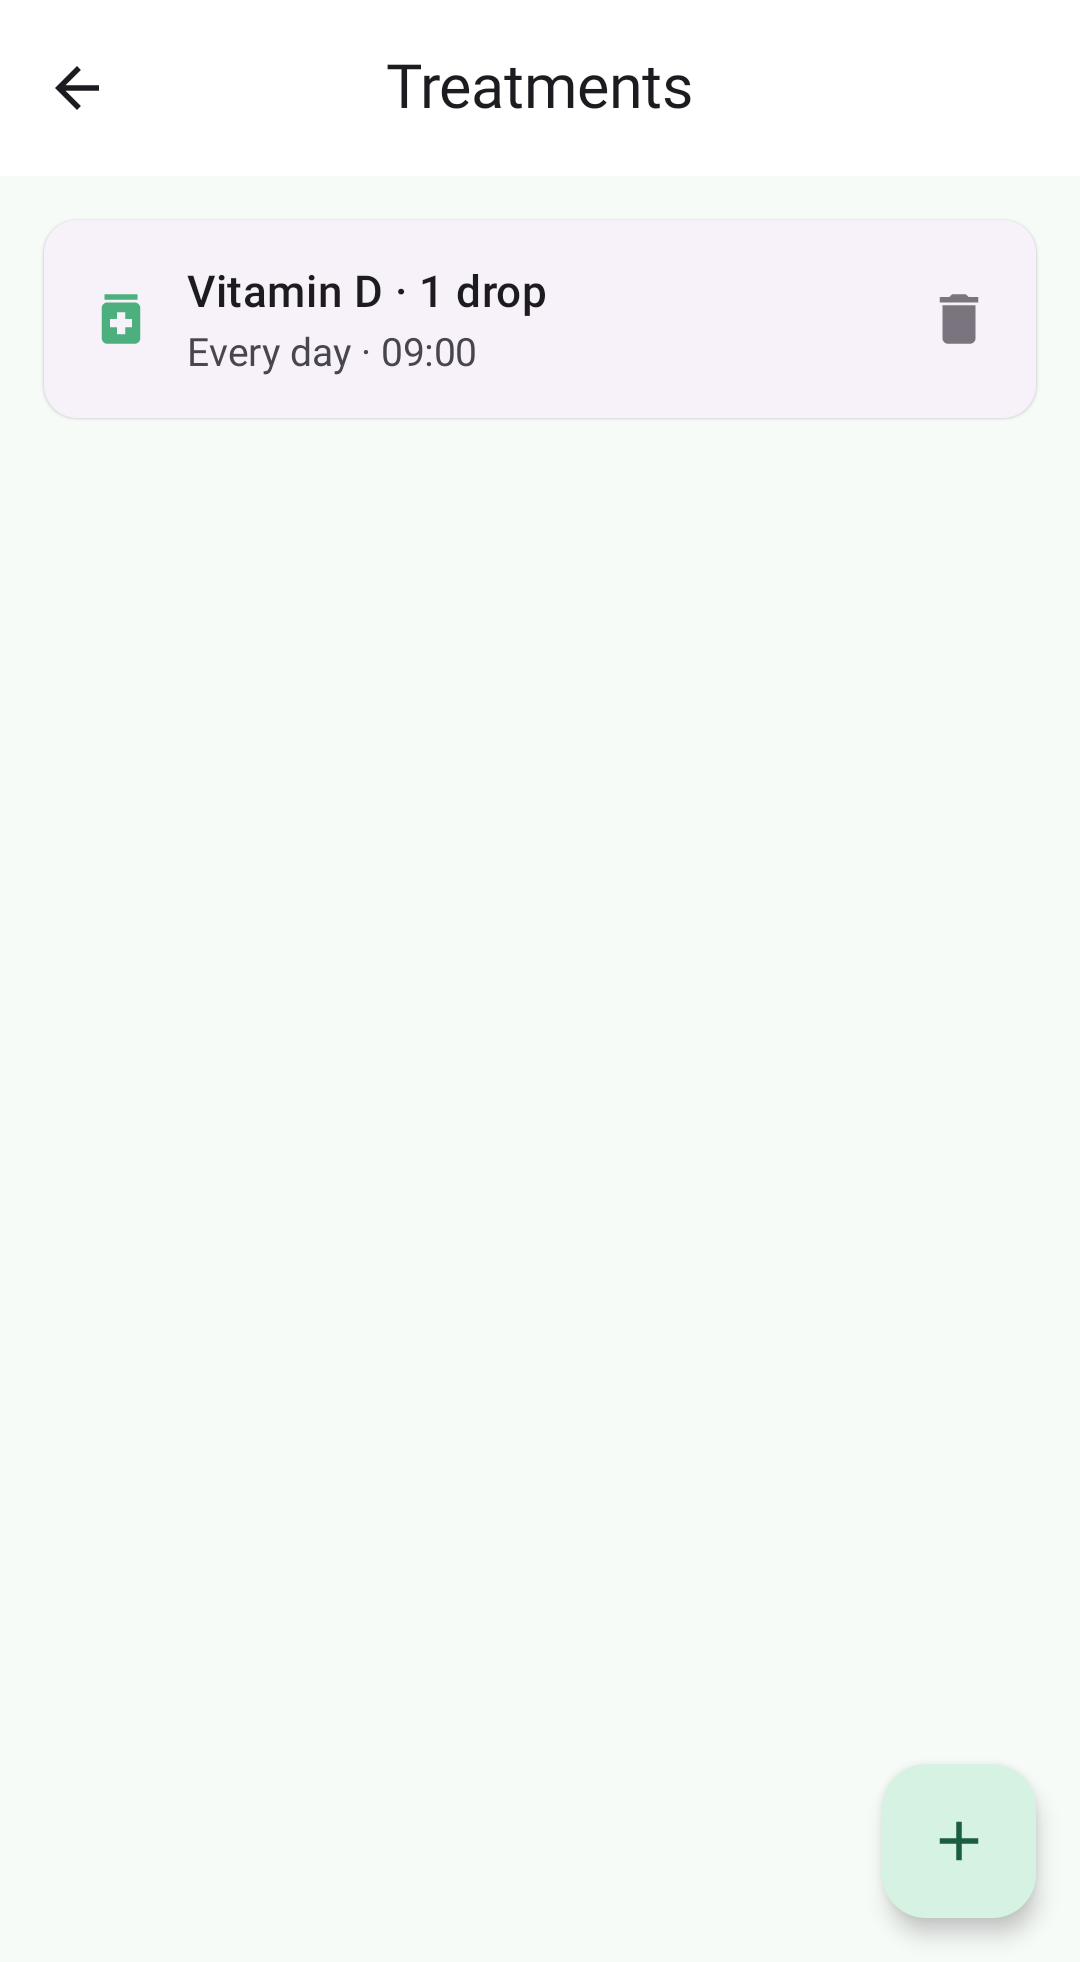
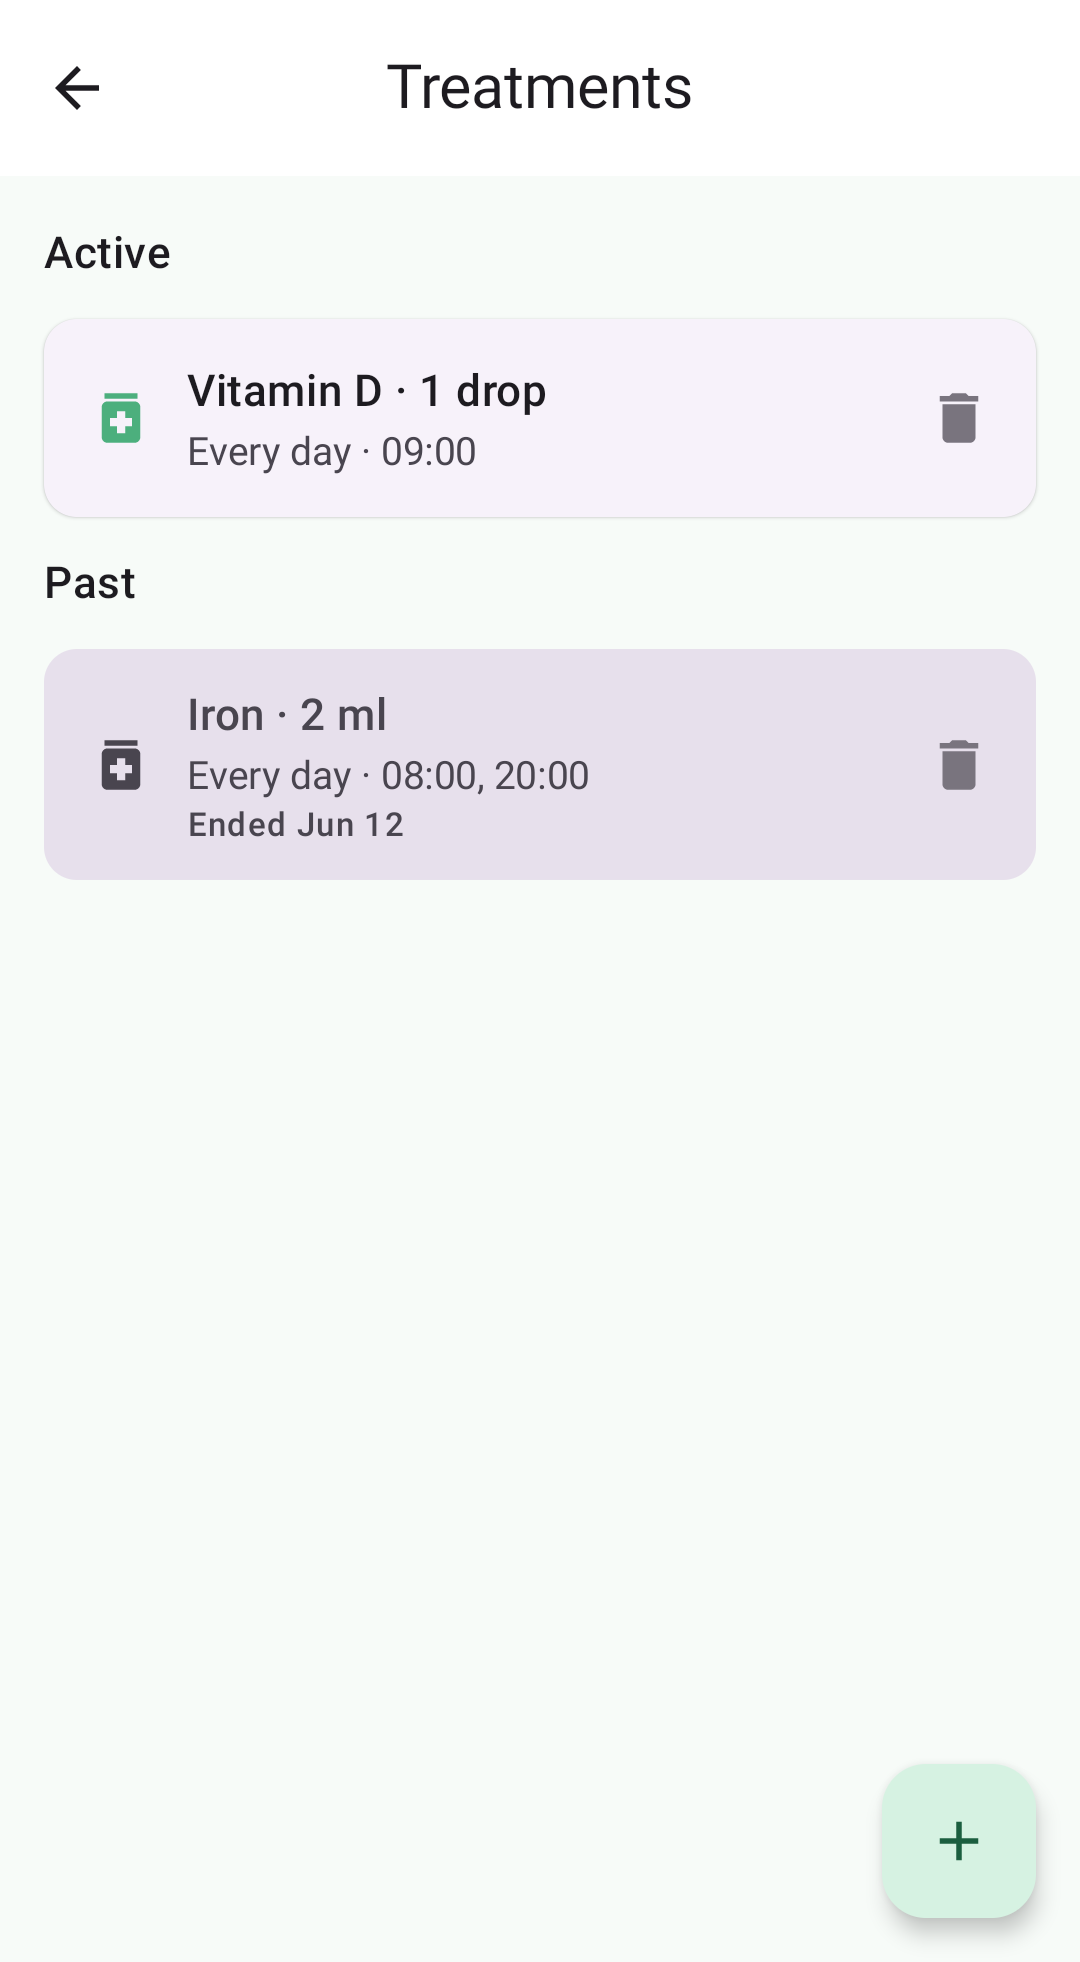
Treatments: separate active courses from past ones (#85)
A finished course sat in the treatments list looking exactly like a
running one, in the DAO's by-name order, so a course that ended weeks ago
could be the first thing on the screen.

The list now keeps the courses that are still running — or not started
yet — on top under "Active", and gathers the ones whose end day is behind
us below them under "Past", newest first. A past card is drawn flat, on
the muted surface pair, with the day it ended: it reads as finished at a
glance but stays legible and still opens its details when tapped. The
headings only appear once there is a past course to tell apart, so a list
of running treatments looks as it always did.

hasEnded() compares calendar days in the local zone, matching the
inclusive end date TreatmentReminders.nextTrigger already honours: a
course whose last dose is today stays active until midnight, one with no
end date never ends, and one not started yet is ahead rather than past.
TreatmentSectionsTest pins those boundaries.

SectionLabel moves from ui/home to ui/common, since it is now used by
two screens.

Claude-Session: https://claude.ai/code/session_014DKEUuLPC8cVHioybjBWqU

diff --git a/app/src/main/java/com/gproust/sprout/ui/treatments/TreatmentsScreen.kt b/app/src/main/java/com/gproust/sprout/ui/treatments/TreatmentsScreen.kt
@@ -28,7 +28,7 @@ import androidx.compose.material.icons.filled.Add
 import androidx.compose.material.icons.filled.Delete
 import androidx.compose.material.icons.filled.Medication
 import androidx.compose.material3.Button
-import androidx.compose.material3.Card
+import androidx.compose.material3.CardDefaults
 import androidx.compose.material3.ElevatedCard
 import androidx.compose.material3.FloatingActionButton
 import androidx.compose.material3.Icon
@@ -50,7 +50,6 @@ import androidx.compose.ui.Alignment
 import androidx.compose.ui.Modifier
 import androidx.compose.ui.platform.LocalContext
 import androidx.compose.ui.res.stringResource
-import androidx.compose.ui.text.font.FontWeight
 import androidx.compose.ui.unit.dp
 import androidx.lifecycle.ViewModel
 import androidx.lifecycle.viewModelScope
@@ -66,8 +65,10 @@ import com.gproust.sprout.ui.common.EmptyHint
 import com.gproust.sprout.ui.common.FieldLabel
 import com.gproust.sprout.ui.common.NotesField
 import com.gproust.sprout.ui.common.NumberField
+import com.gproust.sprout.ui.common.SectionLabel
 import com.gproust.sprout.ui.common.SproutTopBar
 import com.gproust.sprout.ui.common.TimePickerField
+import com.gproust.sprout.ui.common.formatDate
 import com.gproust.sprout.ui.rememberSproutViewModelFactory
 import kotlinx.coroutines.flow.SharingStarted
 import kotlinx.coroutines.flow.stateIn
@@ -151,6 +152,13 @@ fun TreatmentsScreen(onBack: () -> Unit) {
             }
         },
     ) { padding ->
+        // Courses that are over drop to their own section at the bottom, newest
+        // first; the ones still running (or not started yet) stay on top in the
+        // DAO's by-name order.
+        val now = System.currentTimeMillis()
+        val (past, current) = treatments.partition { hasEnded(it, now) }
+        val sortedPast = past.sortedByDescending { it.endDate }
+
         LazyColumn(
             modifier = Modifier.fillMaxSize().padding(padding),
             contentPadding = PaddingValues(16.dp),
@@ -159,10 +167,31 @@ fun TreatmentsScreen(onBack: () -> Unit) {
             if (treatments.isEmpty()) {
                 item { EmptyHint(stringResource(R.string.treatment_empty)) }
             }
-            items(treatments, key = { it.id }) { treatment ->
+            // Headings only earn their space once there is something to tell
+            // apart — with no past course the list reads as it always did.
+            if (sortedPast.isNotEmpty() && current.isNotEmpty()) {
+                item(key = "header-active") {
+                    SectionLabel(stringResource(R.string.treatment_section_active))
+                }
+            }
+            items(current, key = { it.id }) { treatment ->
                 TreatmentCard(
                     treatment = treatment,
                     summary = scheduleSummary(context, treatment),
+                    onEdit = { editing = treatment },
+                    onDelete = { deleting = treatment },
+                )
+            }
+            if (sortedPast.isNotEmpty()) {
+                item(key = "header-past") {
+                    SectionLabel(stringResource(R.string.treatment_section_past))
+                }
+            }
+            items(sortedPast, key = { it.id }) { treatment ->
+                TreatmentCard(
+                    treatment = treatment,
+                    summary = scheduleSummary(context, treatment),
+                    past = true,
                     onEdit = { editing = treatment },
                     onDelete = { deleting = treatment },
                 )
@@ -171,14 +200,37 @@ fun TreatmentsScreen(onBack: () -> Unit) {
     }
 }
 
+/**
+ * One treatment. A [past] course is drawn flat and in the muted on-surface
+ * pair rather than at a lower alpha: it should read as finished at a glance,
+ * yet still be legible, and still open its details when tapped.
+ */
 @Composable
 private fun TreatmentCard(
     treatment: TreatmentEntity,
     summary: String,
     onEdit: () -> Unit,
     onDelete: () -> Unit,
+    past: Boolean = false,
 ) {
-    ElevatedCard(Modifier.fillMaxWidth()) {
+    val context = LocalContext.current
+    val muted = MaterialTheme.colorScheme.onSurfaceVariant
+    ElevatedCard(
+        modifier = Modifier.fillMaxWidth(),
+        colors = if (past) {
+            CardDefaults.elevatedCardColors(
+                containerColor = MaterialTheme.colorScheme.surfaceVariant,
+                contentColor = muted,
+            )
+        } else {
+            CardDefaults.elevatedCardColors()
+        },
+        elevation = if (past) {
+            CardDefaults.elevatedCardElevation(defaultElevation = 0.dp)
+        } else {
+            CardDefaults.elevatedCardElevation()
+        },
+    ) {
         Row(
             Modifier.padding(start = 16.dp, top = 12.dp, bottom = 12.dp, end = 4.dp),
             verticalAlignment = Alignment.CenterVertically,
@@ -186,7 +238,7 @@ private fun TreatmentCard(
             Icon(
                 Icons.Filled.Medication,
                 contentDescription = null,
-                tint = MaterialTheme.colorScheme.primary,
+                tint = if (past) muted else MaterialTheme.colorScheme.primary,
                 modifier = Modifier.padding(end = 12.dp),
             )
             Column(
@@ -203,13 +255,20 @@ private fun TreatmentCard(
                 Text(
                     summary,
                     style = MaterialTheme.typography.bodyMedium,
-                    color = MaterialTheme.colorScheme.onSurfaceVariant,
+                    color = muted,
                 )
-                if (!treatment.remindersEnabled) {
+                val endedOn = treatment.endDate?.takeIf { past }
+                if (endedOn != null) {
+                    Text(
+                        stringResource(R.string.treatment_ended, formatDate(context, endedOn)),
+                        style = MaterialTheme.typography.labelMedium,
+                        color = muted,
+                    )
+                } else if (!treatment.remindersEnabled) {
                     Text(
                         stringResource(R.string.treatment_reminders_off),
                         style = MaterialTheme.typography.labelMedium,
-                        color = MaterialTheme.colorScheme.onSurfaceVariant,
+                        color = muted,
                     )
                 }
             }
@@ -222,6 +281,20 @@ private fun TreatmentCard(
             }
         }
     }
+}
+
+/**
+ * True once a course's end day is behind us. The end date is inclusive and
+ * compared by calendar day, so a treatment whose last dose is today stays in
+ * the active section until midnight; one with no end date never ends, and one
+ * that has not started yet is still ahead, not past.
+ */
+internal fun hasEnded(treatment: TreatmentEntity, now: Long): Boolean {
+    val end = treatment.endDate ?: return false
+    val zone = ZoneId.systemDefault()
+    val endDay = Instant.ofEpochMilli(end).atZone(zone).toLocalDate()
+    val today = Instant.ofEpochMilli(now).atZone(zone).toLocalDate()
+    return endDay.isBefore(today)
 }
 
 @Composable

diff --git a/app/src/test/java/com/gproust/sprout/TreatmentSectionsTest.kt b/app/src/test/java/com/gproust/sprout/TreatmentSectionsTest.kt
@@ -1,0 +1,67 @@
+package com.gproust.sprout
+
+import com.gproust.sprout.data.local.TreatmentEntity
+import com.gproust.sprout.ui.treatments.hasEnded
+import org.junit.Assert.assertFalse
+import org.junit.Assert.assertTrue
+import org.junit.Test
+import java.time.LocalDate
+import java.time.LocalTime
+import java.time.ZoneId
+
+/**
+ * Which side of the treatments list a course lands on. The end date is
+ * inclusive and the comparison is by calendar day, so the boundary cases —
+ * a course whose last dose is today, one that ends at one minute past
+ * midnight — are the ones worth pinning down.
+ */
+class TreatmentSectionsTest {
+
+    private val zone: ZoneId = ZoneId.systemDefault()
+    private val today: LocalDate = LocalDate.of(2026, 3, 15)
+    private val now = today.atTime(14, 30).atZone(zone).toInstant().toEpochMilli()
+
+    private fun millisAt(date: LocalDate, time: LocalTime = LocalTime.NOON): Long =
+        date.atTime(time).atZone(zone).toInstant().toEpochMilli()
+
+    private fun treatment(endDate: Long?) = TreatmentEntity(
+        name = "Vitamin D",
+        startDate = millisAt(today.minusDays(30)),
+        endDate = endDate,
+    )
+
+    @Test
+    fun noEndDate_isNeverPast() {
+        assertFalse(hasEnded(treatment(endDate = null), now))
+    }
+
+    @Test
+    fun endsToday_staysActive() {
+        assertFalse(hasEnded(treatment(millisAt(today)), now))
+        // Even when the stored instant is earlier in the day than "now".
+        assertFalse(hasEnded(treatment(millisAt(today, LocalTime.of(0, 1))), now))
+    }
+
+    @Test
+    fun endedYesterday_isPast() {
+        assertTrue(hasEnded(treatment(millisAt(today.minusDays(1))), now))
+        // Right up to the last minute of yesterday.
+        assertTrue(hasEnded(treatment(millisAt(today.minusDays(1), LocalTime.of(23, 59))), now))
+    }
+
+    @Test
+    fun endsInTheFuture_isActive() {
+        assertFalse(hasEnded(treatment(millisAt(today.plusDays(1))), now))
+        assertFalse(hasEnded(treatment(millisAt(today.plusYears(1))), now))
+    }
+
+    @Test
+    fun notStartedYet_isActiveNotPast() {
+        val upcoming = TreatmentEntity(
+            name = "Iron",
+            startDate = millisAt(today.plusDays(7)),
+            endDate = millisAt(today.plusDays(21)),
+        )
+        assertFalse(hasEnded(upcoming, now))
+    }
+}

diff --git a/app/src/main/java/com/gproust/sprout/ui/home/BabyPane.kt b/app/src/main/java/com/gproust/sprout/ui/home/BabyPane.kt
@@ -41,6 +41,7 @@ import androidx.compose.ui.text.font.FontWeight
 import androidx.compose.ui.unit.dp
 import com.gproust.sprout.R
 import com.gproust.sprout.data.local.BreastSide
+import com.gproust.sprout.ui.common.SectionLabel
 import com.gproust.sprout.ui.common.StatCard
 import com.gproust.sprout.ui.common.babyAge
 import com.gproust.sprout.ui.common.formatDuration
@@ -338,15 +339,6 @@ private fun TodayRow(summary: BabySummary) {
             modifier = Modifier.weight(1f),
         )
     }
-}
-
-@Composable
-internal fun SectionLabel(text: String) {
-    Text(
-        text,
-        style = MaterialTheme.typography.titleMedium,
-        fontWeight = FontWeight.SemiBold,
-    )
 }
 
 /**

diff --git a/app/src/androidTest/java/com/gproust/sprout/ScreenshotTest.kt b/app/src/androidTest/java/com/gproust/sprout/ScreenshotTest.kt
@@ -165,6 +165,17 @@ class ScreenshotTest {
                 endDate = now + 358 * day,
             ),
         )
+        // A finished course, so the capture shows the past section too.
+        repo.addTreatment(
+            TreatmentEntity(
+                name = "Iron",
+                dose = "2 ml",
+                intervalDays = 1,
+                timesOfDay = listOf(8 * 60, 20 * 60),
+                startDate = now - 30 * day,
+                endDate = now - 3 * day,
+            ),
+        )
         repo.addWellbeing(
             WellbeingEntity(
                 time = now - day,

diff --git a/app/src/main/java/com/gproust/sprout/ui/common/Components.kt b/app/src/main/java/com/gproust/sprout/ui/common/Components.kt
@@ -196,6 +196,16 @@ fun DayHeader(dayStartMillis: Long) {
     )
 }
 
+/** A heading over a group of cards in a list, e.g. "Active" / "Past". */
+@Composable
+fun SectionLabel(text: String) {
+    Text(
+        text,
+        style = MaterialTheme.typography.titleMedium,
+        fontWeight = FontWeight.SemiBold,
+    )
+}
+
 /** The "+" button that opens a tracking screen's log form. */
 @Composable
 fun AddEntryFab(contentDescription: String, onClick: () -> Unit) {

diff --git a/CHANGELOG.md b/CHANGELOG.md
@@ -5,6 +5,11 @@ All notable changes to Sprout are documented here. This project follows
 
 ## [Unreleased]
 
+- 💊 **Finished treatments step out of the way.** The treatments list now keeps
+  the courses that are still running at the top, under **Active**, and gathers
+  the ones that are over below them under **Past**, greyed out and with the day
+  they ended. Nothing is hidden — a past course still opens with a tap, and
+  still shows everything it did before.
 - 📱 **Moving to a new phone keeps things straight.** Sprout now says exactly
   what belongs in an Android backup and in the copy made when you set up a new
   handset: your record and your settings come with you, while the identifier
